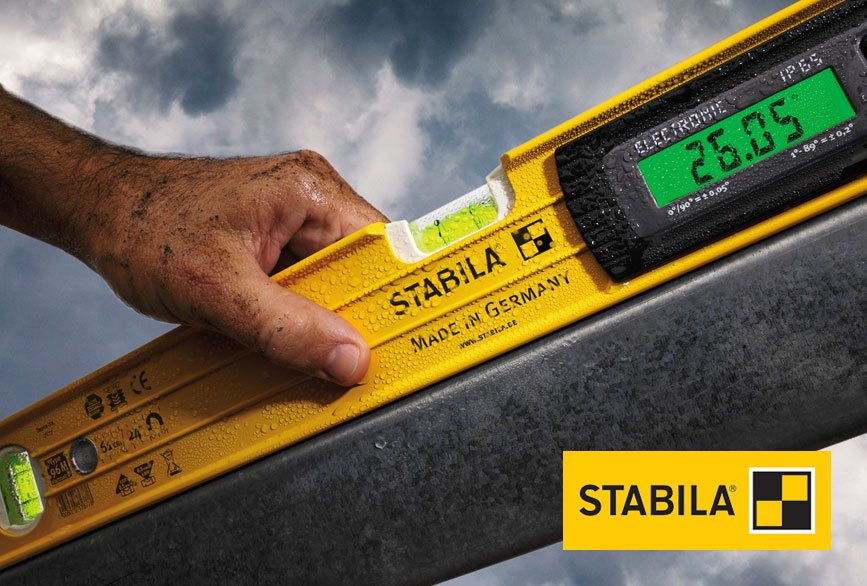
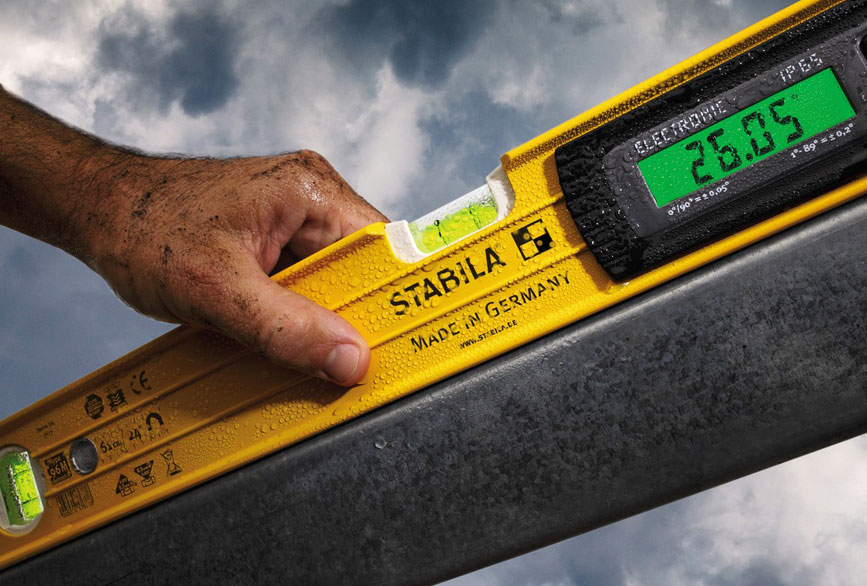
updated styles

Changed region(s): [[0.6228, 0.7679, 0.9654, 0.9522]]

diff --git a/code/src/styles.css b/code/src/styles.css
@@ -1,1 +1,1 @@
-.block{display:block}.center-block{margin-left:auto;margin-right:auto}.conceal{display:none}.flex{display:flex}.flex-column{display:flex;flex-direction:column}.flex-row{display:flex;flex-direction:row}.font-awesome{font-family:'FontAwesome'}.font-nunito{font-family:'Nunito Sans',sans-serif}.font-open-sans{font-family:'Open Sans',sans-serif}.font-style-italic{font-style:italic}.font-style-normal{font-style:normal}.font-weight-bold{font-weight:700}.font-weight-light{font-weight:300}.font-weight-regular{font-weight:400}.max-width-830{margin-left:auto;margin-right:auto;max-width:830px}.max-width-960{margin-left:auto;margin-right:auto;max-width:960px}.text-decoration-none{text-decoration:none}.text-decoration-underline{text-decoration:underline}.relative{position:relative}html{font-size:62.5%}body{font-family:'Nunito Sans',sans-serif;display:flex;flex-direction:column;font-weight:300;flex-wrap:nowrap;min-height:100vh;font-size:2.1rem;line-height:3rem}h1{font-family:'Nunito Sans',sans-serif;font-weight:400;font-size:3.6rem;line-height:4.4rem;margin:0 0 .85em}p{margin-bottom:1.43em}.btn{cursor:pointer}.btn-default{font-weight:700;border:.2rem solid #ffb310;font-size:1em;line-height:1.43em;color:#ffb310;padding:.65em 1.25em}.btn-default:active,.btn-default:focus,.btn-default:hover{color:#ffb310}.container-fluid{max-width:1230px}.form-control{color:#000000}.form-control:active,.form-control:focus,.form-control:hover{color:#000000}.form-control::-webkit-input-placeholder{font-style:italic;color:#666666}.form-control:-moz-placeholder{font-style:italic;color:#666666;opacity:1}.form-control::-moz-placeholder{font-style:italic;color:#666666;opacity:1}.form-control:-ms-input-placeholder{font-style:italic;color:#666666}.form-control::-ms-input-placeholder{font-style:italic;color:#666666}.pre-header{margin-bottom:.75em}#site-header{position:relative;z-index:6;background:#ffffff}#site-navigation{position:relative;z-index:5;background:#000000}#product-search-bar{position:relative;z-index:4;background:#feb10b;border-bottom:.2rem solid #ffffff}#homepage-hero{position:relative;z-index:3;background:#5c5c5c;border-bottom:.2rem solid #ffffff}#homepage-hero .col-12{display:flex;flex-direction:row;flex-wrap:nowrap}#homepage-hero .col-12 .slideshow{flex:1 1 auto;border-left:.2rem solid #ffffff}#homepage-hero .col-12 .featured-product{flex:0 0 32rem;min-width:32rem;border-left:.2rem solid #ffffff;border-right:.2rem solid #ffffff;background:#000000;padding:4rem 2.5rem 2.2rem;color:#ffffff;font-size:1.7rem;line-height:2.2rem;margin-top:30px}#homepage-hero .col-12 .featured-product h2{font-weight:400;font-size:2rem;line-height:2.2rem;margin:0 0 1rem}#homepage-hero .col-12 .featured-product .action{margin-top:4.5rem}#homepage-hero .col-12 .featured-product .action .btn-default{display:block;font-weight:400;margin-left:auto;margin-right:auto;max-width:24rem}#page-body{position:relative;z-index:2;padding:6rem 0;background:#ffffff}#site-footer{font-family:'Open Sans',sans-serif;position:relative;z-index:1;padding:3.5rem 0;background:#000000;color:#ffffff;margin-top:auto;font-size:1.4rem;line-height:2.7rem}#site-footer a{text-decoration:none;color:#ffffff}#site-footer a:active,#site-footer a:focus,#site-footer a:hover{text-decoration:underline;color:#ffffff}#site-footer h2{color:#feb10b;font-size:2rem;line-height:2.8rem;margin:0}#site-footer .form-group{width:100%}#site-footer .form-group .label{display:block;margin-right:1.8rem}#site-footer .form-group .label p{margin:0}#site-footer .form-group .input-group{flex:1 1 auto}#site-footer .form-group .input-group .form-control{font-size:1.4rem;height:3.8rem;border:0}#site-footer .btn-default{font-family:'Open Sans',sans-serif;font-weight:700;font-size:1.4rem;background:#ffffff;border:0;color:#000000;padding:.7rem 1.6rem}#site-copyright p{margin:0}
+.block{display:block}.center-block{margin-left:auto;margin-right:auto}.conceal{display:none}.flex{display:flex}.flex-column{display:flex;flex-direction:column}.flex-row{display:flex;flex-direction:row}.font-awesome{font-family:'FontAwesome'}.font-nunito{font-family:'Nunito Sans',sans-serif}.font-open-sans{font-family:'Open Sans',sans-serif}.font-style-italic{font-style:italic}.font-style-normal{font-style:normal}.font-weight-bold{font-weight:700}.font-weight-light{font-weight:300}.font-weight-regular{font-weight:400}.max-width-830{margin-left:auto;margin-right:auto;max-width:830px}.max-width-960{margin-left:auto;margin-right:auto;max-width:960px}.pos-absolute{position:absolute}.pos-relative{position:relative}.text-decoration-none{text-decoration:none}.text-decoration-underline{text-decoration:underline}html{font-size:62.5%}body{font-family:'Nunito Sans',sans-serif;display:flex;flex-direction:column;font-weight:300;flex-wrap:nowrap;min-height:100vh;font-size:2.1rem;line-height:3rem}h1{font-family:'Nunito Sans',sans-serif;font-weight:400;font-size:3.6rem;line-height:4.4rem;margin:0 0 .85em}p{margin-bottom:1.43em}[data-background]{background-repeat:no-repeat;background-size:cover;background-position:50% 50%}.btn{cursor:pointer}.btn-default{font-weight:700;border:.2rem solid #ffb310;font-size:1em;line-height:1.43em;color:#ffb310;padding:.65em 1.25em}.btn-default:active,.btn-default:focus,.btn-default:hover{color:#ffb310}.container-fluid{max-width:1230px}.form-control{color:#000000}.form-control:active,.form-control:focus,.form-control:hover{color:#000000}.form-control::-webkit-input-placeholder{font-style:italic;color:#666666}.form-control:-moz-placeholder{font-style:italic;color:#666666;opacity:1}.form-control::-moz-placeholder{font-style:italic;color:#666666;opacity:1}.form-control:-ms-input-placeholder{font-style:italic;color:#666666}.form-control::-ms-input-placeholder{font-style:italic;color:#666666}.pre-header{margin-bottom:.75em}#site-header{position:relative;z-index:6;background:#ffffff}#site-navigation{position:relative;z-index:5;background:#000000}#product-search-bar{position:relative;z-index:4;background:#feb10b;border-bottom:.2rem solid #ffffff}#homepage-hero{position:relative;z-index:3;background:#5c5c5c;border-bottom:.2rem solid #ffffff}#homepage-hero .col-12{display:flex;flex-wrap:nowrap;flex-direction:row}#homepage-hero .col-12 .slideshow{flex:1 1 auto;border-left:.2rem solid #ffffff;position:relative}#homepage-hero .col-12 .slideshow .slide{position:absolute;top:0;left:0;right:0;bottom:0}#homepage-hero .col-12 .slideshow .slide a{display:block;position:absolute;top:0;left:0;right:0;bottom:0}#homepage-hero .col-12 .slideshow .slide a .brand{display:block;position:absolute;display:flex;flex-direction:row;justify-content:flex-end;bottom:3.5rem;left:3.5rem;right:3.5rem;top:3.5rem}#homepage-hero .col-12 .slideshow .slide a .brand img{display:block;margin-top:auto;max-width:100%;height:auto;max-height:100%}#homepage-hero .col-12 .featured-product{flex:0 0 32rem;min-width:32rem;border-left:.2rem solid #ffffff;border-right:.2rem solid #ffffff;background:#000000;padding:4rem 2.5rem 2.2rem;color:#ffffff;font-size:1.7rem;line-height:2.2rem}#homepage-hero .col-12 .featured-product h2{font-weight:400;font-size:2rem;line-height:2.2rem;margin:3rem 0 1rem}#homepage-hero .col-12 .featured-product .action{margin-top:4.5rem}#homepage-hero .col-12 .featured-product .action .btn-default{display:block;font-weight:400;margin-left:auto;margin-right:auto;max-width:24rem}#page-body{position:relative;z-index:2;padding:6rem 0;background:#ffffff}#site-footer{font-family:'Open Sans',sans-serif;position:relative;z-index:1;padding:3.5rem 0;background:#000000;color:#ffffff;margin-top:auto;font-size:1.4rem;line-height:2.7rem}#site-footer a{text-decoration:none;color:#ffffff}#site-footer a:active,#site-footer a:focus,#site-footer a:hover{text-decoration:underline;color:#ffffff}#site-footer h2{color:#feb10b;font-size:2rem;line-height:2.8rem;margin:0}#site-footer .form-group{width:100%}#site-footer .form-group .label{display:block;margin-right:1.8rem}#site-footer .form-group .label p{margin:0}#site-footer .form-group .input-group{flex:1 1 auto}#site-footer .form-group .input-group .form-control{font-size:1.4rem;height:3.8rem;border:0}#site-footer .btn-default{font-family:'Open Sans',sans-serif;font-weight:700;font-size:1.4rem;background:#ffffff;border:0;color:#000000;padding:.7rem 1.6rem}#site-copyright p{margin:0}

diff --git a/code/src/styles.less b/code/src/styles.less
@@ -23,9 +23,10 @@
 .font-weight-regular {font-weight:400;}
 .max-width-830 {.center-block;max-width:830px;}
 .max-width-960 {.center-block;max-width:960px;}
+.pos-absolute {position:absolute;}
+.pos-relative {position:relative;}
 .text-decoration-none {text-decoration:none;}
 .text-decoration-underline {text-decoration:underline;}
-.relative {position:relative;}
 
 html {
   font-size: 62.5%;
@@ -48,6 +49,12 @@ h1 {
 }
 p {
   margin-bottom: 1.43em;
+}
+
+[data-background] {
+  background-repeat: no-repeat;
+  background-size: cover;
+  background-position: 50% 50%;
 }
 
 /* bootstrap */
@@ -103,26 +110,26 @@ p {
 
 /* structure */
 #site-header {
-  .relative;
+  .pos-relative;
   z-index: 6;
   background: @white;
 }
 
 #site-navigation {
-  .relative;
+  .pos-relative;
   z-index: 5;
   background: @black;
 }
 
 #product-search-bar {
-  .relative;
+  .pos-relative;
   z-index: 4;
   background: @gold;
   border-bottom: .2rem solid @white;
 }
 
 #homepage-hero {
-  .relative;
+  .pos-relative;
   z-index: 3;
   background: @grey;
   border-bottom: .2rem solid @white;
@@ -130,10 +137,48 @@ p {
   .col-12 {
     .flex-row;
     flex-wrap: nowrap;
+    flex-direction: row;
     
     .slideshow {
       flex: 1 1 auto;
       border-left: .2rem solid @white;
+      position: relative;
+
+      .slide {
+        .pos-absolute;
+        top: 0;
+        left: 0;
+        right: 0;
+        bottom: 0;
+
+        a {
+          .block;
+          .pos-absolute;
+          top: 0;
+          left: 0;
+          right: 0;
+          bottom: 0;
+
+          .brand {
+            .block;
+            .pos-absolute;
+            .flex-row;
+            justify-content: flex-end;
+            bottom: 3.5rem;
+            left: 3.5rem;
+            right: 3.5rem;
+            top: 3.5rem;
+
+            img {
+              .block;
+              margin-top: auto;
+              max-width: 100%;
+              height: auto;
+              max-height: 100%;
+            }
+          }
+        }
+      }
     }
     .featured-product {
       flex: 0 0 32rem;
@@ -145,13 +190,12 @@ p {
       color: @white;
       font-size: 1.7rem;
       line-height: 2.2rem;
-      margin-top: 30px;
 
       h2 {
         .font-weight-regular;
         font-size: 2rem;
         line-height: 2.2rem;
-        margin: 0 0 1rem;
+        margin: 3rem 0 1rem;
       }
       .action {
         margin-top: 4.5rem;
@@ -167,7 +211,7 @@ p {
 }
 
 #page-body {
-  .relative;
+  .pos-relative;
   z-index: 2;
   padding: 6rem 0;
   background: @white;
@@ -175,7 +219,7 @@ p {
 
 #site-footer {
   .font-open-sans;
-  .relative;
+  .pos-relative;
   z-index: 1;
   padding: 3.5rem 0;
   background: @black;

diff --git a/code/index.html b/code/index.html
@@ -67,14 +67,14 @@
             <div class="slide">
               <a href="#" data-background="images/homepage-hero.jpg">
                 <span class="brand">
-                  <img src="images/brands/stabila.jpg" alt="stabila">
+                  <img src="images/brands/icn-stabila.jpg" alt="stabila">
                 </span>
               </a>
             </div>
             <div class="slide">
               <a href="#" data-background="images/homepage-hero.jpg">
                 <span class="brand">
-                  <img src="images/brands/stabila.jpg" alt="stabila">
+                  <img src="images/brands/icn-stabila.jpg" alt="stabila">
                 </span>
               </a>
             </div>

diff --git a/code/src/global.js b/code/src/global.js
@@ -1,0 +1,12 @@
+var page = {
+  init: function() {
+    this.loadBackgrounds();
+  },
+  loadBackgrounds: function(){
+    Array.prototype.slice.call(document.querySelectorAll('[data-background]')).forEach(function(el){
+      el.style.backgroundImage = 'url("' + el.getAttribute('data-background') + '")';
+    });
+  }
+}
+
+page.init();
